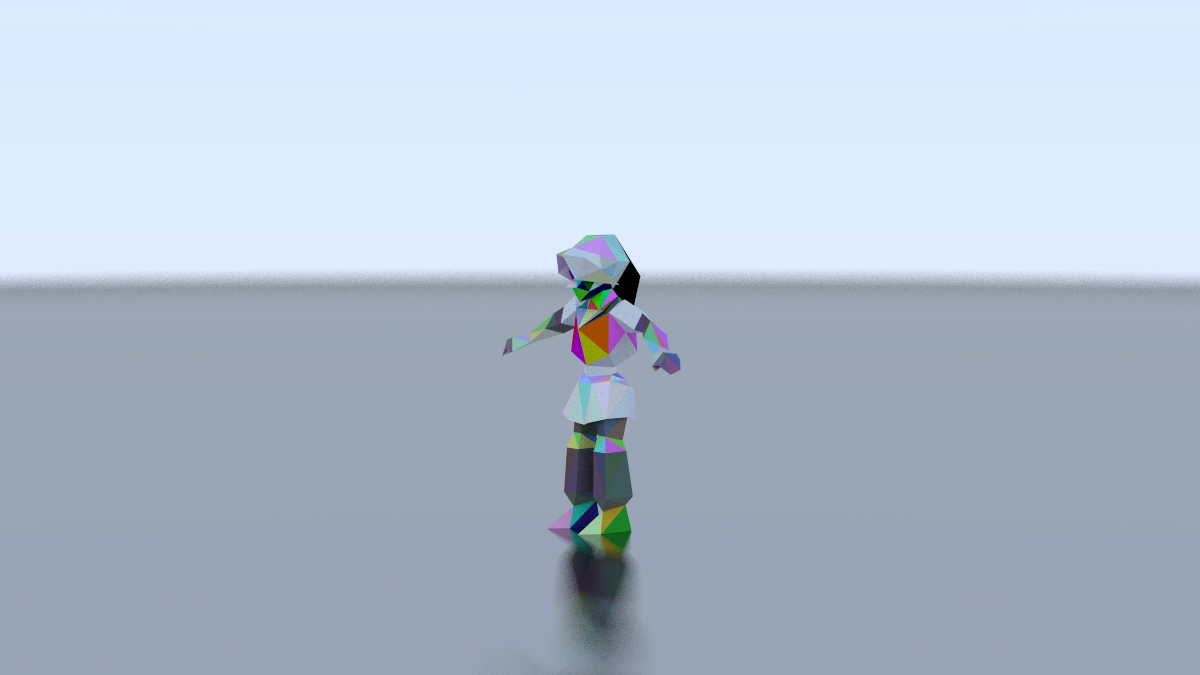
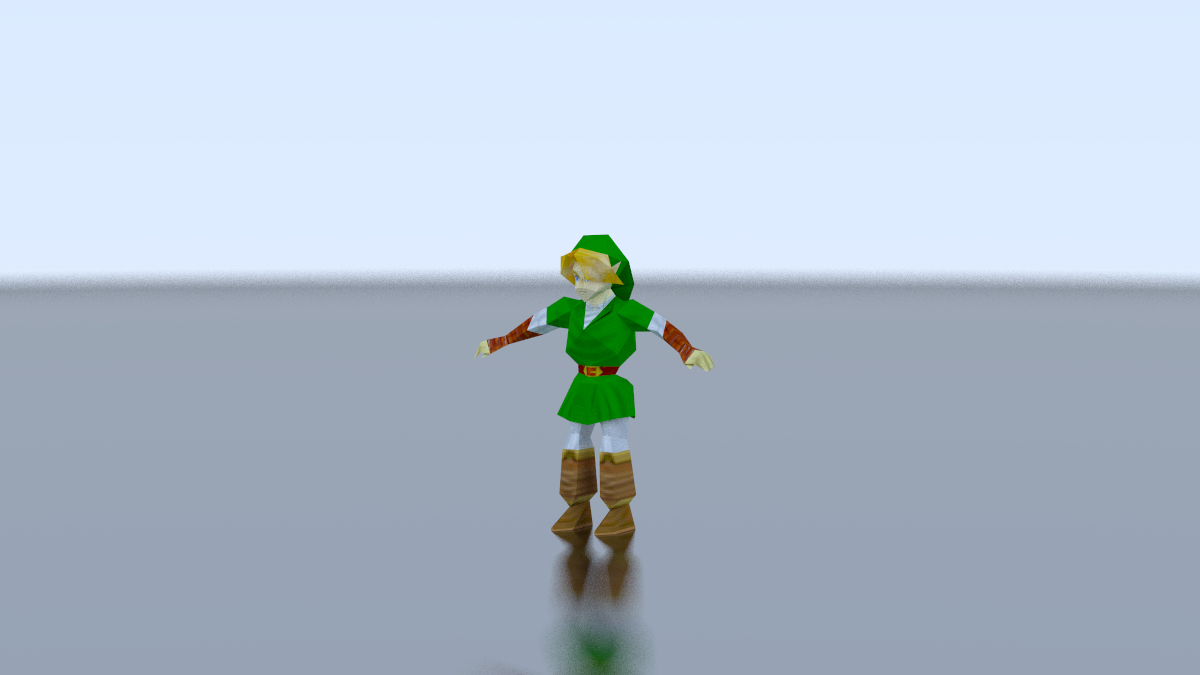
finish link example

Changed region(s): [[0.4008, 0.3422, 0.6167, 1.0]]

diff --git a/src/model.rs b/src/model.rs
@@ -18,6 +18,7 @@ pub struct Model {
     pub path: String,
     pub vertices: Vec<Point3<f64>>,
     pub faces: Vec<Hittable>,
+    pub textures: HashMap<String, DynamicImage>
 }
 impl Model {
     pub fn new(
@@ -28,11 +29,12 @@ impl Model {
         let obj_file = format!("{0}/{1}.obj", path, filename);
         let mtl_file = format!("{0}/{1}.mtl", path, filename);
         let mtl = MaterialTemplateLibrary::read(mtl_file);
-        let mut img: ImageResult<DynamicImage> = ImageResult::from(Ok(DynamicImage::new_rgb8(0, 0)));
         let input = BufReader::new(File::open(obj_file).unwrap());
         let mut vertices: Vec<Point3<f64>> = vec![];
         let mut texture_coords: Vec<Point2<f64>> = vec![];
         let mut faces: Vec<Hittable> = vec![];
+        let mut textures: HashMap<String, DynamicImage> = HashMap::new();
+        let mut mat_name: String = String::new();
         for line in input.lines() {
             let s = line.unwrap_or(String::from(""));
             let tokens = s.split(' ').collect::<Vec<&str>>();
@@ -43,7 +45,7 @@ impl Model {
                     vertices.push(Model::parse_vertex(points, &transforms));
                 }
                 "f" => {
-                    faces.push(Model::parse_face(points, &img, &vertices, &texture_coords));
+                    faces.push(Model::parse_face(points, mat_name.clone(), &vertices, &texture_coords));
                 }
                 "vt" => {
                     let x = points.first().unwrap_or(&"").parse::<f64>().unwrap_or(0.0);
@@ -52,9 +54,9 @@ impl Model {
                     texture_coords.push(texture_coord);
                 }
                 "usemtl" => {
-                    let mat_name = String::from(*points.first().unwrap_or(&""));
+                    mat_name = String::from(*points.first().unwrap_or(&""));
                     let material_file_name = format!("{0}/{1}", path, mtl.materials.get(mat_name.as_str()).unwrap());
-                    img = image::open(material_file_name);
+                    textures.insert(mat_name.clone(), image::open(material_file_name).unwrap());
                 }
                 _ => {}
             }
@@ -62,7 +64,8 @@ impl Model {
         Self {
             path,
             vertices,
-            faces
+            faces,
+            textures
         }
     }
     fn parse_vertex(
@@ -87,29 +90,22 @@ impl Model {
         }
         point
     }
-    fn parse_face(points: &[&str], img: &ImageResult<DynamicImage>, vertices: &[Point3<f64>], texture_coords: &[Vector2<f64>]) -> Hittable {
-        let i = img.as_ref().expect("asdf");
-        let (x_v, r_t, _) = Model::parse_face_index(points[0]);
-        let (y_v, g_t, _) = Model::parse_face_index(points[1]);
-        let (z_v, b_t, _) = Model::parse_face_index(points[2]);
-        let r_coord = texture_coords[r_t];
-        let g_coord = texture_coords[g_t];
-        let b_coord = texture_coords[b_t];
-        let width = i.width() as f64;
-        let height = i.height() as f64;
-        let r = i.get_pixel((width*r_coord.x) as u32, (height*r_coord.y) as u32).to_rgb().0;
-        let g = i.get_pixel((width*g_coord.x) as u32, (height*g_coord.y) as u32).to_rgb().0;
-        let b = i.get_pixel((width*b_coord.x) as u32, (height*b_coord.y) as u32).to_rgb().0;
+    fn parse_face(points: &[&str], material: String, vertices: &[Point3<f64>], texture_coords: &[Vector2<f64>]) -> Hittable {
+        let (x_v, x_t, _) = Model::parse_face_index(points[0]);
+        let (y_v, y_t, _) = Model::parse_face_index(points[1]);
+        let (z_v, z_t, _) = Model::parse_face_index(points[2]);
+        let at_coord = texture_coords[x_t];
+        let bt_coord = texture_coords[y_t];
+        let ct_coord = texture_coords[z_t];
         Hittable::Triangle {
             a: vertices[x_v],
             b: vertices[y_v],
             c: vertices[z_v],
-            material: Material::Lambertian {
-                albedo: Color3::new(
-                (r[0] as f64 + r[1] as f64 + r[2] as f64) / 3.0 / 255.0,
-                (g[0] as f64 + g[1] as f64 + g[2] as f64) / 3.0 / 255.0,
-                (b[0] as f64 + b[1] as f64 + b[2] as f64) / 3.0 / 255.0
-                )
+            material: Material::Texture {
+                key: material,
+                a: at_coord,
+                b: bt_coord,
+                c: ct_coord
             }
         }
     }

diff --git a/src/material.rs b/src/material.rs
@@ -1,21 +1,26 @@
-use cgmath::{InnerSpace, Vector3};
+use std::collections::HashMap;
+use cgmath::{InnerSpace, Vector2, Vector3};
 use cgmath::num_traits::Pow;
+use image::{DynamicImage, GenericImageView, Pixel};
 use rand::Rng;
 
 use Vector3 as Color3;
-use crate::hittable::HitRecord;
+use crate::hittable::{HitRecord, Hittable};
 use crate::ray::Ray;
 use crate::util;
 use crate::util::{Interval, near_zero, random_unit_vector, reflect, refract, unit_vector};
 
+use Vector2 as Point2;
+
 pub enum Material {
     Lambertian { albedo: Color3<f64> },
+    Texture { key: String, a: Vector2<f64>, b: Vector2<f64>, c: Vector2<f64> },
     Metal { albedo: Color3<f64>, fuzz: f64 },
     Glass { refraction_index: f64 }
 }
 
 impl Material {
-    pub fn scatter(self: &Material, ray: &Ray, hit: &HitRecord) -> (Color3<f64>, Ray) {
+    pub fn scatter(self: &Material, ray: &Ray, hit: &HitRecord, textures: &HashMap<String, DynamicImage>) -> (Color3<f64>, Ray) {
         match self {
             Material::Lambertian { albedo } => {
                 let mut scatter_direction = hit.normal + util::random_on_hemisphere(&hit.normal);
@@ -59,13 +64,35 @@ impl Material {
                 let scattered = Ray { origin: hit.point, direction, time: ray.time };
                 (attenuation, scattered)
             }
+            Material::Texture { key, a: at, b: bt, c: ct} => {
+                let image = textures.get(key).unwrap();
+                match &hit.object {
+                    Hittable::Circle { .. } => { todo!() }
+                    Hittable::Triangle { a: av, b: bv, c: cv, material: _ } => {
+                        let p = hit.point;
+                        let bary_a = ((bv.y-cv.y)*(p.x-cv.x)+(cv.x-bv.x)*(p.y-cv.y))/((bv.y-cv.y)*(av.x-cv.x)+(cv.x-bv.x)*(av.y-cv.y));
+                        let bary_b = ((cv.y-av.y)*(p.x-cv.x)+(av.x-cv.x)*(p.y-cv.y))/((bv.y-cv.y)*(av.x-cv.x)+(cv.x-bv.x)*(av.y-cv.y));
+                        let bary_c = 1.0 - bary_a - bary_b;
+                        let p_uv = bary_a * at + bary_b * bt + bary_c * ct;
+                        let height = image.height();
+                        let width = image.width();
+                        let x_pixel = f64::round(p_uv.x * width as f64) as u32;
+                        let y_pixel = f64::round(p_uv.y * height as f64) as u32;
+                        let color = image.get_pixel(x_pixel, height-y_pixel).to_rgb();
+                        let albedo = Color3::new(color.0[0] as f64 / 255.0, color.0[1] as f64 / 255.0, color.0[2] as f64 / 255.0);
+                        let new_mat = Material::Lambertian { albedo };
+                        new_mat.scatter(ray, hit, textures)
+                    }
+                }
+            }
         }
     }
     pub fn clone(self: &Material) -> Material {
         match self {
             Material::Lambertian { albedo } => Material::Lambertian { albedo: *albedo },
             Material::Metal { albedo, fuzz } => Material::Metal { albedo: *albedo, fuzz: *fuzz },
-            Material::Glass { refraction_index } => Material::Glass { refraction_index: *refraction_index }
+            Material::Glass { refraction_index } => Material::Glass { refraction_index: *refraction_index },
+            Material::Texture { key, a, b, c } => Material::Texture { key: key.clone(), a: *a, b: *b, c: *c}
         }
     }
     fn reflectance(cos: f64, ref_idx: f64) -> f64 {

diff --git a/src/hittable.rs b/src/hittable.rs
@@ -1,5 +1,7 @@
+use std::collections::HashMap;
 use cgmath::{ElementWise, InnerSpace, Vector3};
 use cgmath::num_traits::Pow;
+use image::DynamicImage;
 use rand::Rng;
 
 use Vector3 as Point3;
@@ -16,7 +18,8 @@ pub struct HitRecord {
     pub normal: Vector3<f64>,
     pub t: f64,
     pub material: Material,
-    pub front_face: bool
+    pub front_face: bool,
+    pub object: Hittable
 }
 impl HitRecord {
     fn set_face_normal(self: &mut HitRecord, ray: &Ray, outward_normal: Vector3<f64>) {
@@ -49,7 +52,8 @@ impl Hittable {
                             normal: outward_normal,
                             t: root,
                             material: material.clone(),
-                            front_face: true
+                            front_face: true,
+                            object: Circle { center: *center, radius: *radius, material: material.clone() }
                         };
                         record.set_face_normal(ray, outward_normal);
                         Some(record)
@@ -93,7 +97,8 @@ impl Hittable {
                         normal,
                         t,
                         material: material.clone(),
-                        front_face: true
+                        front_face: true,
+                        object: Triangle { a: *a, b: *b, c: *c, material: material.clone() }
                     };
                     record.set_face_normal(ray, normal);
                     Some(record)
@@ -116,7 +121,8 @@ fn find_nearest_root(a: f64, half_b: f64, discriminant: f64, ray_t: Interval) ->
     Some(root)
 }
 pub struct HittableList {
-    pub hittables: Vec<Hittable>
+    pub hittables: Vec<Hittable>,
+    pub textures: HashMap<String, DynamicImage>
 }
 impl HittableList {
     pub fn add(self: &mut HittableList, hittable: Hittable) {
@@ -137,7 +143,7 @@ impl HittableList {
         hit_record
     }
     pub fn random_spheres() -> Self {
-        let mut world = Self { hittables: vec![] };
+        let mut world = Self { hittables: vec![], textures: HashMap::new() };
         world.add(
             Circle {
                 center: Vector3::new(0.0, -1000.0, 0.0),

diff --git a/src/scene.rs b/src/scene.rs
@@ -59,11 +59,11 @@ fn render_link(mut output_image: File) -> Result<(), Error> {
         String::from("./models/zelda"),
         String::from("Link Adult"),
         vec![
-            rotate_y(25.0),
+            rotate_y(45.0),
             scale(0.01)
         ]
     );
-    let mut world = HittableList{ hittables: model.faces };
+    let mut world = HittableList{ hittables: model.faces, textures: model.textures };
     world.add(
         Hittable::Circle {
             center: Vector3::new(0.0, -1000.0, 0.0),

diff --git a/src/ray.rs b/src/ray.rs
@@ -23,7 +23,7 @@ impl Ray {
         let hit_record = hittable_list.hit(self, Interval::new(0.001, f64::INFINITY));
         match hit_record {
             Some(hit) => {
-                let (attenuation, scattered) = hit.material.scatter(self, &hit);
+                let (attenuation, scattered) = hit.material.scatter(self, &hit, &hittable_list.textures);
                 attenuation.mul_element_wise(scattered.color(hittable_list, max_depth - 1))
             }
             None => {
